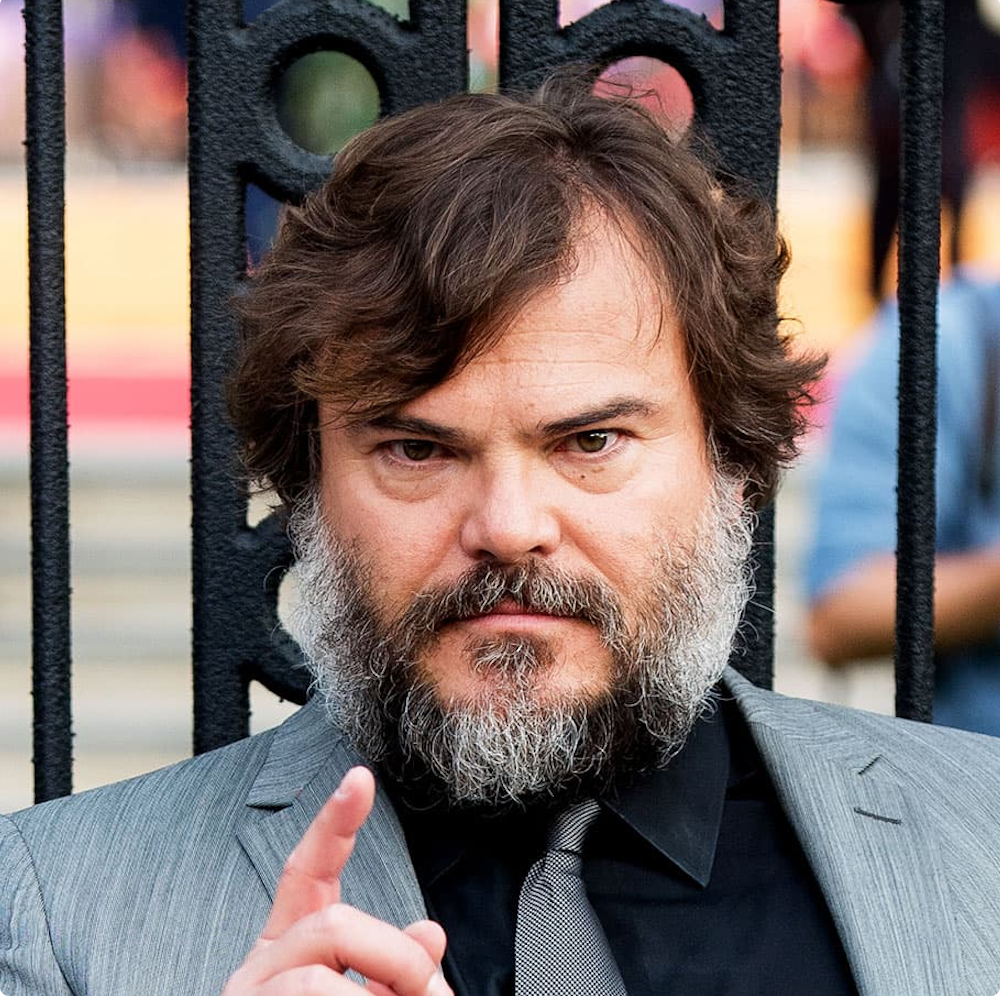
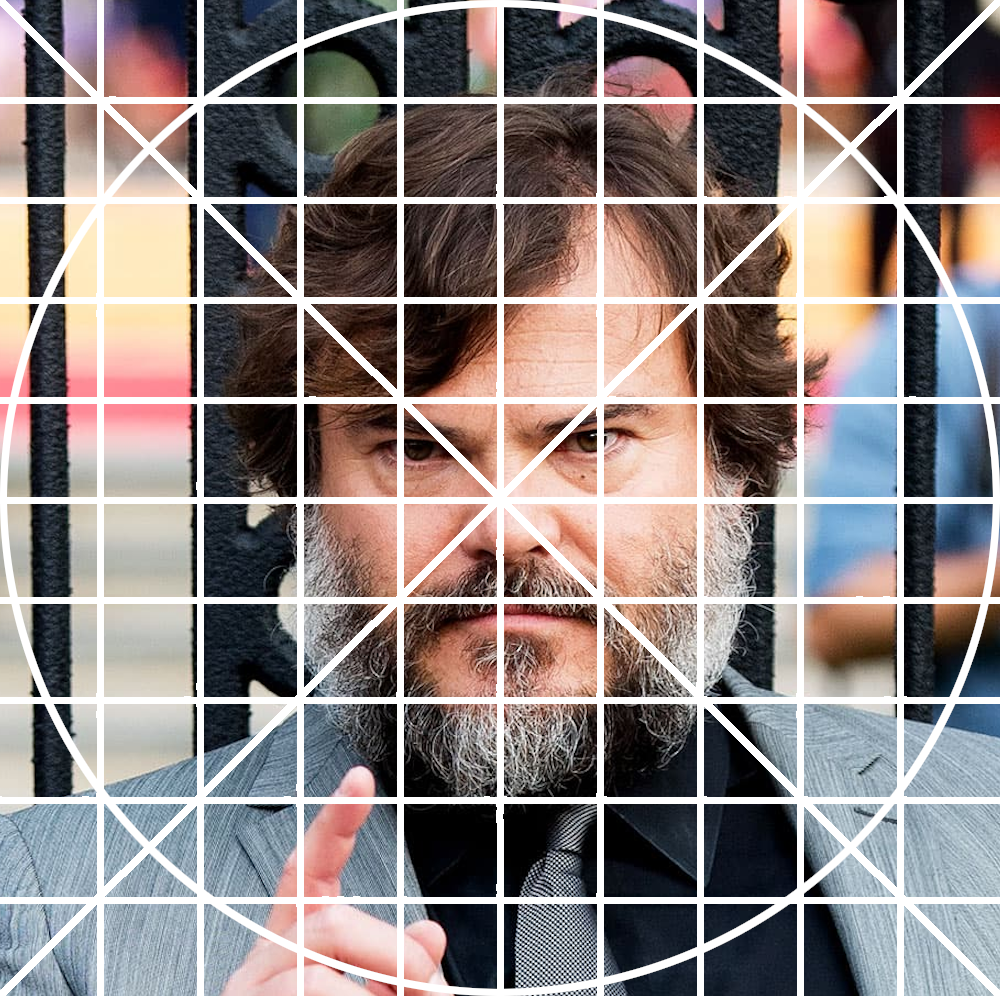
Changed mr.jack black image to include grid lines for calibration. Completely working system for diviting the circle up into n equal parts and accuratly places dots at those points

diff --git a/main.py b/main.py
@@ -6,6 +6,8 @@ class imgController:
     def __init__(self, img):
         # Grabbing image width, height
         self.w, self.h = img.size
+        self.xCenter = np.floor(self.w / 2)
+        self.yCenter = np.floor(self.h / 2)
         
         # Creating image matrix, filling all with False (eg white pixels) 
         self.imgMatrix = [[False for i in range(self.w)] for j in range(self.h)]
@@ -15,7 +17,7 @@ class imgController:
 
         # Scribing circle based on short side of image
         self.scribeCircle(img, self.h)
-        self.scribeNails(img, self.h)
+        self.scribeNails(img, self.h, 8)
         img.show()
 
         # Writing img data into img matrix
@@ -29,24 +31,36 @@ class imgController:
 
         # Drawing circle matching short side boarders of image
         # first argument = (upperX, upperY, lowerX, lowerY). circle will be drawn in that bounding box 
-        draw.ellipse((0, 0, shortSide, shortSide), outline="green", width=2)
+        draw.ellipse((0, 0, shortSide, shortSide), outline="green", width=3)
         del draw
 
-    def scribeNails(self, img, shortSide):
+    def scribeNails(self, img, shortSide, numNails):
         draw = ImageDraw.Draw(img)
+        # Dotting the middle for reference
+        draw.ellipse((shortSide/2-10,shortSide/2-10,shortSide/2+10,shortSide/2+10), fill="blue", outline="blue", width=3)
         # Drawing 100 'nails' on the image
-        for i in range(100):
-            degree = round(i / 100 * 360)
+        for i in range(numNails):
+            degree = round(i / numNails * 360)
 
-            xCenter = round(shortSide / 2)
-            yCenter = round(shortSide / 2)
+            # Converting deg to rad
+            x = np.cos(degree*np.pi/180)
+            y = np.sin(degree*np.pi/180)
 
-            xOff = round(np.cos(degree) * xCenter) + xCenter
-            yOff = round(np.sin(degree) * yCenter) + yCenter
+            # Calculating x offset from cartesian plane to image grid plane
+            xOffset = self.xCenter + self.xCenter * x
+            
+            # Calculating y offset requires flipping the sign of sin(theta) because
+            # the point (0, 0) starts at the upper left and (n, n) ends at the lower right
+            if y < 0:
+                yOffset = self.yCenter + np.abs(self.yCenter * y)
+            else:
+                yOffset = self.yCenter - (self.yCenter * y)
 
-            draw.ellipse((xOff, yOff, xOff + 5, yOff + 5), outline="green", width=2)
+            draw.ellipse((xOffset-10, yOffset-10, xOffset+10, yOffset+10), fill="blue", outline="blue", width=3)
 
-        print(degree, (xOff, yOff))
+            print(degree, x, y)
+
+        # print(degree, (xOff, yOff))
 
         del draw
 
